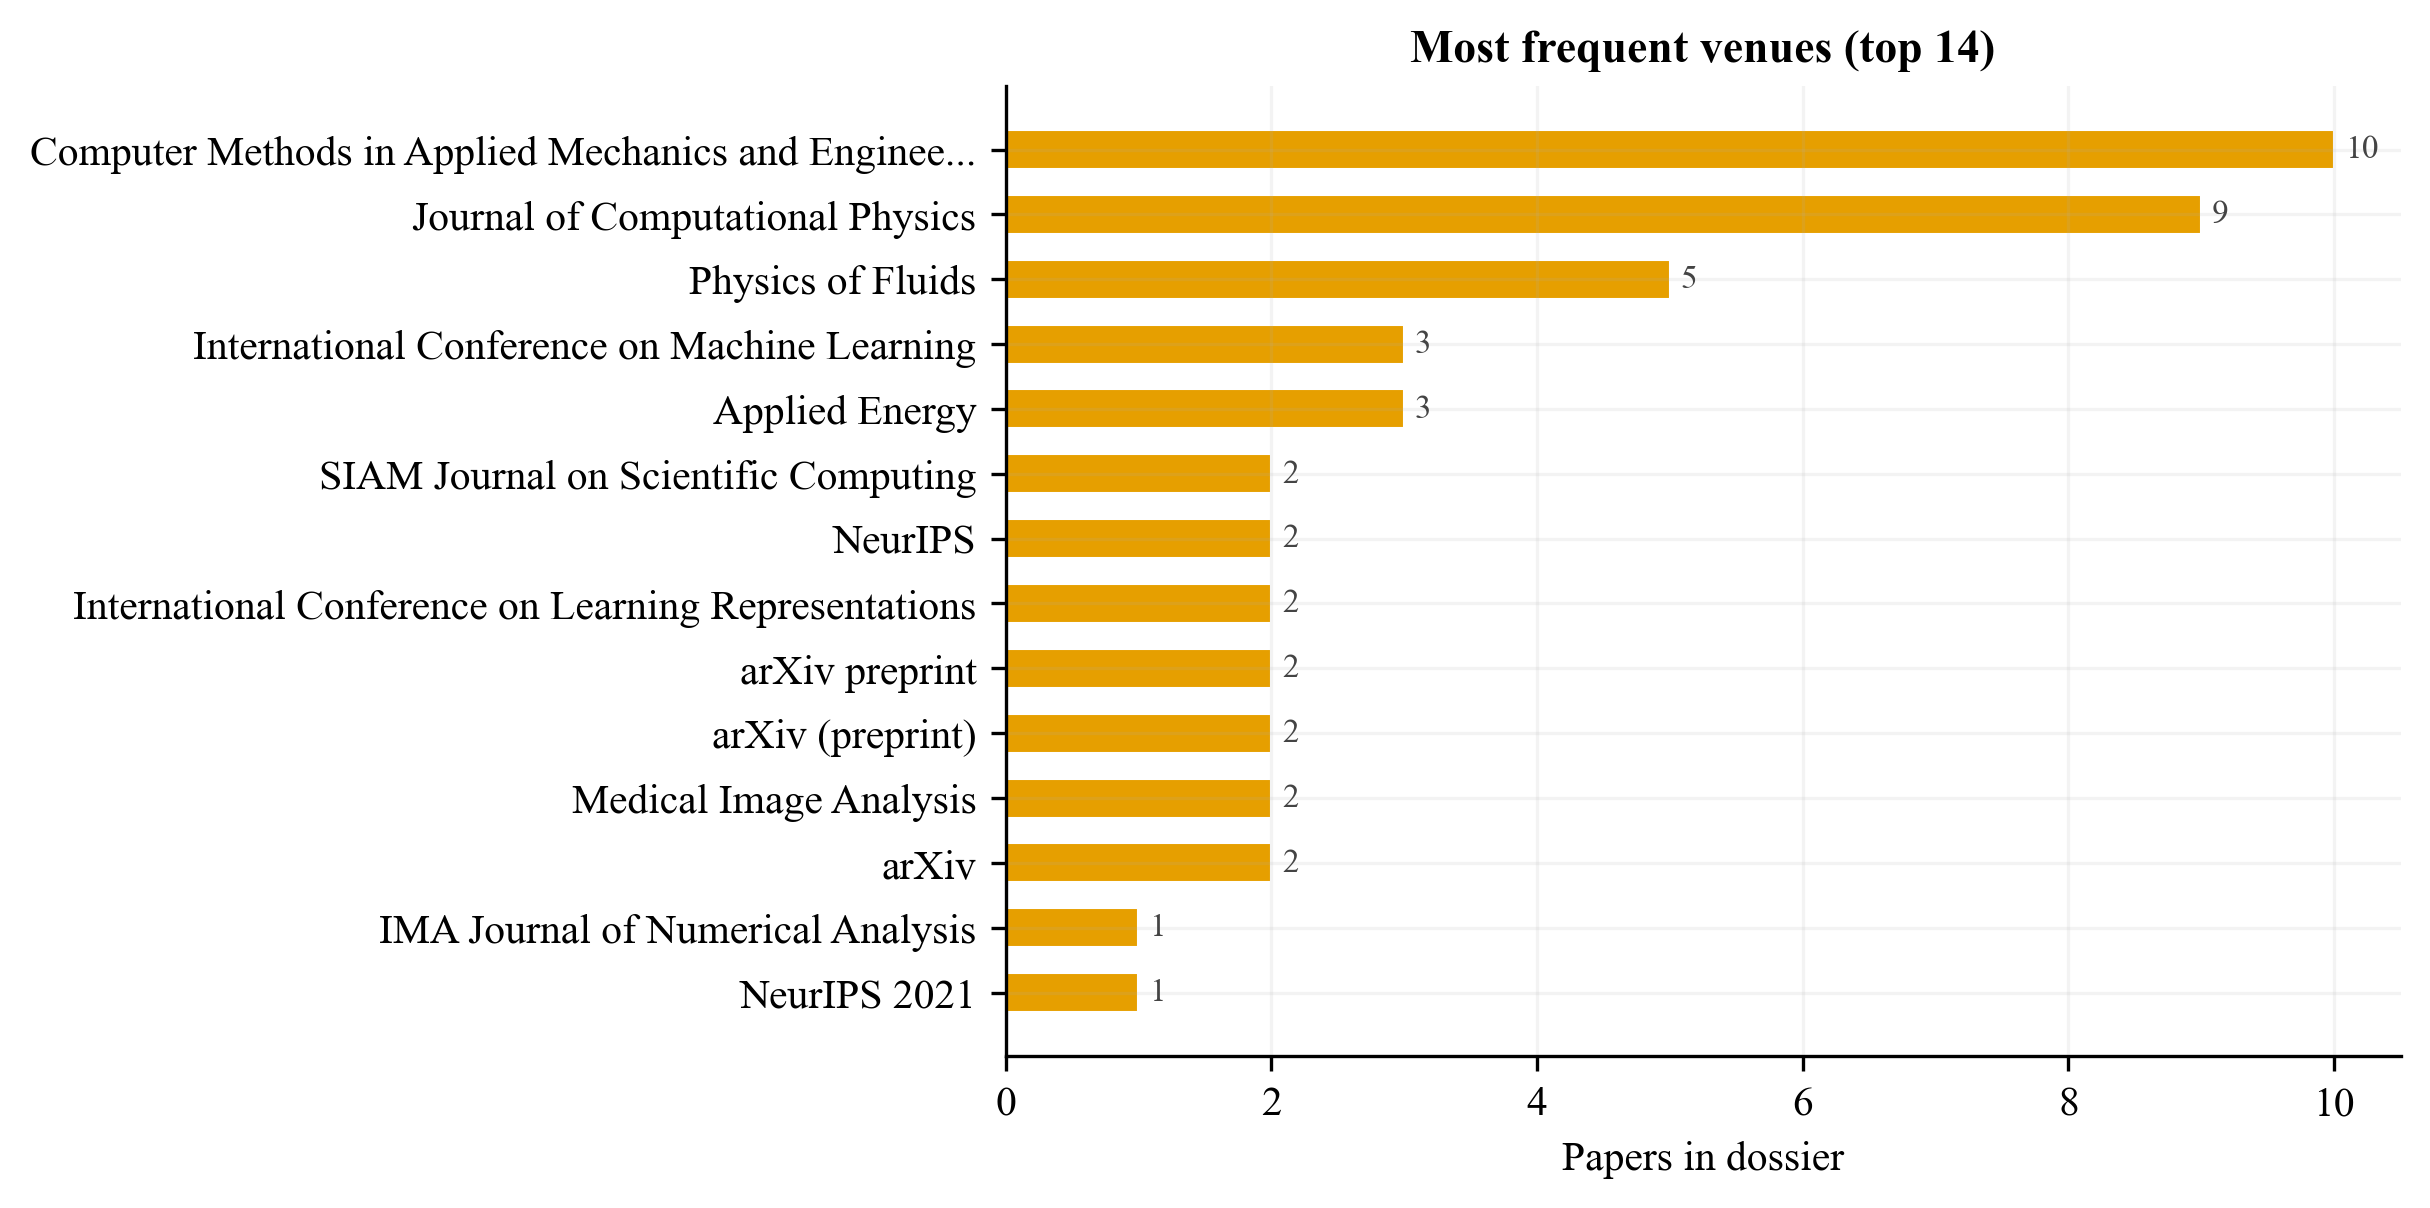
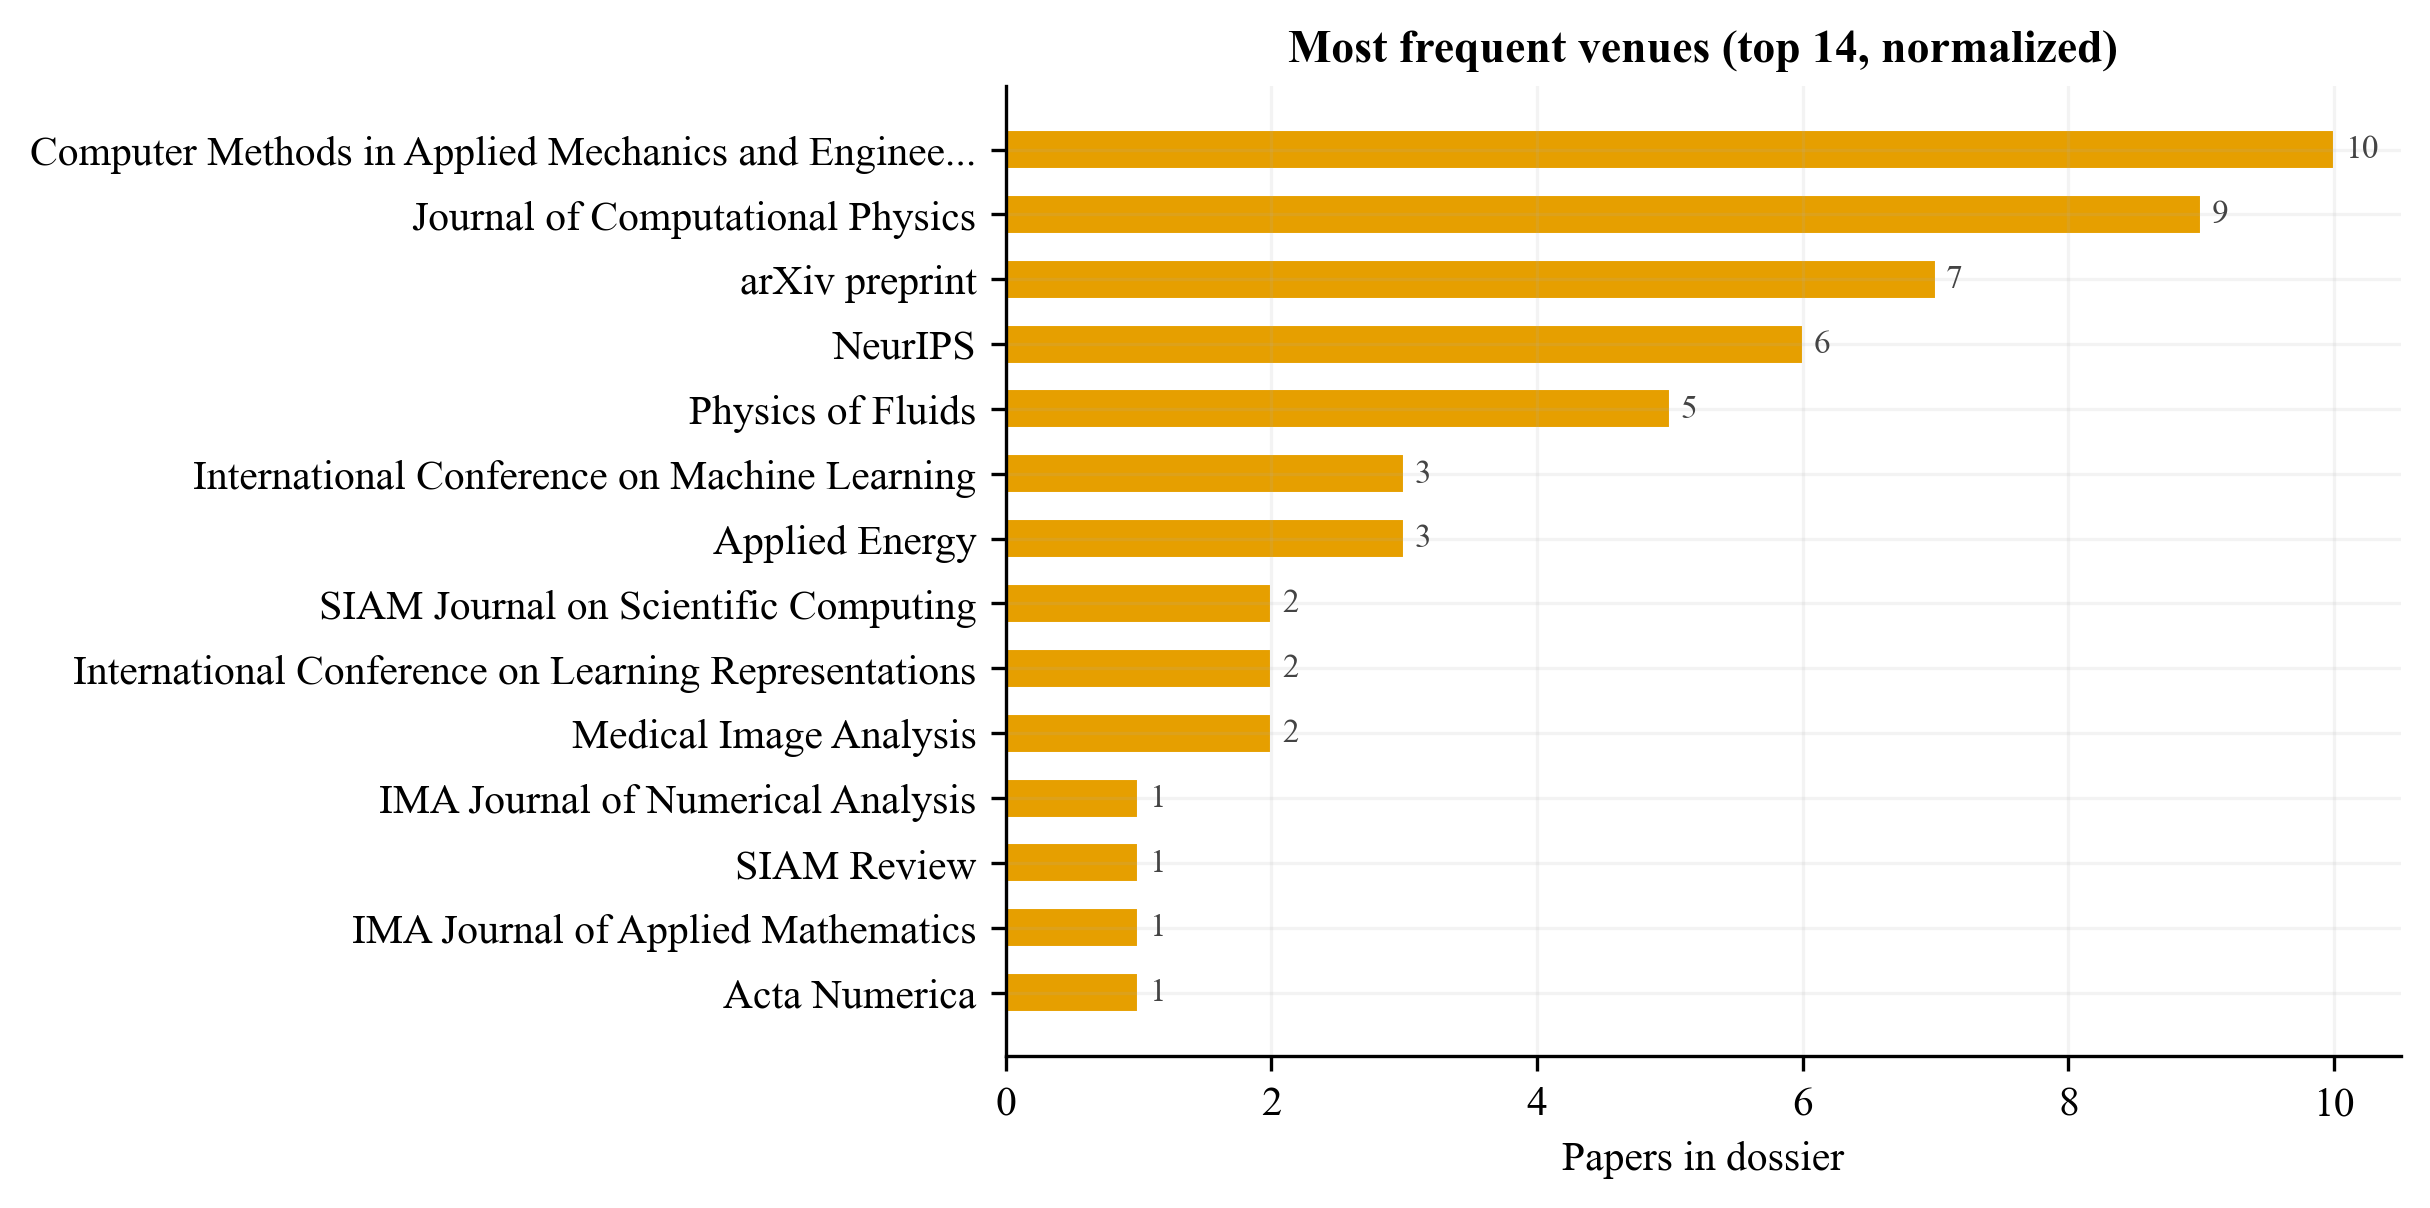
fix(figures): visual-gate repairs — 13-color palette, gutter callouts with leader lines, venue normalization

diff --git a/scripts/make_figures.py b/scripts/make_figures.py
@@ -35,9 +35,10 @@ plt.rcParams.update({
     "axes.grid": True, "grid.alpha": 0.15, "grid.linestyle": "-",
 })
 
-# Okabe-Ito (colorblind-safe) + two grays for extra buckets
+# Okabe-Ito (colorblind-safe) + extra distinct hues + grays (>= 11 domain buckets)
 COLORS = ["#0072B2", "#E69F00", "#009E73", "#D55E00", "#56B4E9",
-          "#CC79A7", "#F0E442", "#004949", "#8C8C8C", "#B0BEC5"]
+          "#CC79A7", "#F0E442", "#004949", "#9467BD", "#8C8C8C",
+          "#17BECF", "#B0BEC5", "#7F4F24"]
 
 SLICE_DOMAIN = {
     "A": "Methods & training", "B": "Architectures & operators",
@@ -111,7 +112,7 @@ def fig1_timeline(rows):
     for r in rows:
         if r["_year"] in years:
             counts[r["_domain"]][years.index(r["_year"])] += 1
-    fig, ax = plt.subplots(figsize=(6.75, 3.4))
+    fig, ax = plt.subplots(figsize=(6.75, 4.1))
     bottom = np.zeros(len(years))
     for i, d in enumerate(domains):
         vals = np.array(counts[d], dtype=float)
@@ -124,7 +125,7 @@ def fig1_timeline(rows):
     ax.set_xlabel("Publication year")
     ax.set_ylabel("Surveyed papers")
     ax.set_title("Verified dossier papers per year (pre-2021 = seminal anchors)")
-    ax.legend(ncol=3, loc="upper left", fontsize=7.5)
+    ax.legend(ncol=3, loc="upper center", bbox_to_anchor=(0.5, -0.13), fontsize=7.5)
     fig.savefig(FIGDIR / "fig1_timeline.png")
     plt.close(fig)
 
@@ -173,22 +174,39 @@ def fig3_mech(rows):
 def fig4_cites(rows):
     pts = [r for r in rows if r["_cites"] and r["_year"]]
     domains = sorted({r["_domain"] for r in pts})
-    fig, ax = plt.subplots(figsize=(6.75, 3.6))
+    fig, ax = plt.subplots(figsize=(6.75, 4.3))
     for i, d in enumerate(domains):
         xs = [r["_year"] for r in pts if r["_domain"] == d]
         ys = [r["_cites"] for r in pts if r["_domain"] == d]
         ax.scatter(xs, ys, s=26, color=COLORS[i % len(COLORS)], label=d,
                    alpha=0.75, edgecolors="white", linewidths=0.4)
     top = sorted(pts, key=lambda r: -r["_cites"])[:8]
-    for r in top:
-        short = r["title"][:34] + ("..." if len(r["title"]) > 34 else "")
-        ax.annotate(short, (r["_year"], r["_cites"]), fontsize=6.0,
-                    xytext=(3, 3), textcoords="offset points", color="#333")
+    ordered = []
+    for yr in sorted({r["_year"] for r in top}):
+        ordered += sorted((r for r in top if r["_year"] == yr), key=lambda r: -r["_cites"])
+    # Global gutter: labels stacked top-to-bottom with a guaranteed minimum gap,
+    # leader lines connecting each label to its true point.
+    callouts = [[i, r, float(r["_cites"])] for i, r in enumerate(ordered, 1)]
+    callouts.sort(key=lambda t: -t[2])
+    for j in range(1, len(callouts)):
+        if callouts[j][2] > callouts[j - 1][2] / 1.35:
+            callouts[j][2] = callouts[j - 1][2] / 1.35
+    for i, r, y_lab in callouts:
+        ax.annotate(f"({i})", xy=(r["_year"], r["_cites"]), xytext=(2027.0, y_lab),
+                    fontsize=7.5, weight="bold", color="#222", va="center",
+                    arrowprops=dict(arrowstyle="-", lw=0.6, color="#999", alpha=0.7),
+                    annotation_clip=False)
+    ax.set_xlim(2018.5, 2028.6)
     ax.set_yscale("log")
+    ax.margins(y=0.10)
     ax.set_xlabel("Publication year")
     ax.set_ylabel("Citations (approx., log scale)")
-    ax.set_title("Citations vs year — 8 most-cited labelled")
-    ax.legend(ncol=3, fontsize=6.8, loc="upper left")
+    ax.set_title("Citations vs year — numbered callouts for 8 most-cited")
+    ax.legend(ncol=3, fontsize=6.8, loc="upper center", bbox_to_anchor=(0.5, -0.13))
+    lines = ["  ".join(f"({i}) {r['title'][:40]}... {r['_year']}" if len(r['title']) > 40
+                       else f"({i}) {r['title']} {r['_year']}")
+             for i, r in enumerate(ordered, 1)]
+    fig.text(0.01, -0.24, "\n".join(lines), fontsize=6.2, color="#444", va="top")
     fig.savefig(FIGDIR / "fig4_citations.png")
     plt.close(fig)
 
@@ -207,8 +225,15 @@ def fig5_problem(rows):
     plt.close(fig)
 
 
+def norm_venue(v: str) -> str:
+    v = re.sub(r"\s*20\d{2}.*$", "", v).strip()
+    if v.lower().startswith("arxiv"):
+        return "arXiv preprint"
+    return v or "Unknown"
+
+
 def fig6_venues(rows):
-    c = Counter(r["venue"].strip() for r in rows if r.get("venue")).most_common(14)
+    c = Counter(norm_venue(r["venue"].strip()) for r in rows if r.get("venue")).most_common(14)
     labels = [k if len(k) <= 52 else k[:49] + "..." for k, _ in c][::-1]
     vals = [v for _, v in c][::-1]
     fig, ax = plt.subplots(figsize=(6.0, 4.2))
@@ -216,7 +241,7 @@ def fig6_venues(rows):
     for y, v in enumerate(vals):
         ax.text(v + 0.08, y, str(v), va="center", fontsize=8, color="#444")
     ax.set_xlabel("Papers in dossier")
-    ax.set_title("Most frequent venues (top 14)")
+    ax.set_title("Most frequent venues (top 14, normalized)")
     fig.savefig(FIGDIR / "fig6_venues.png")
     plt.close(fig)
 
